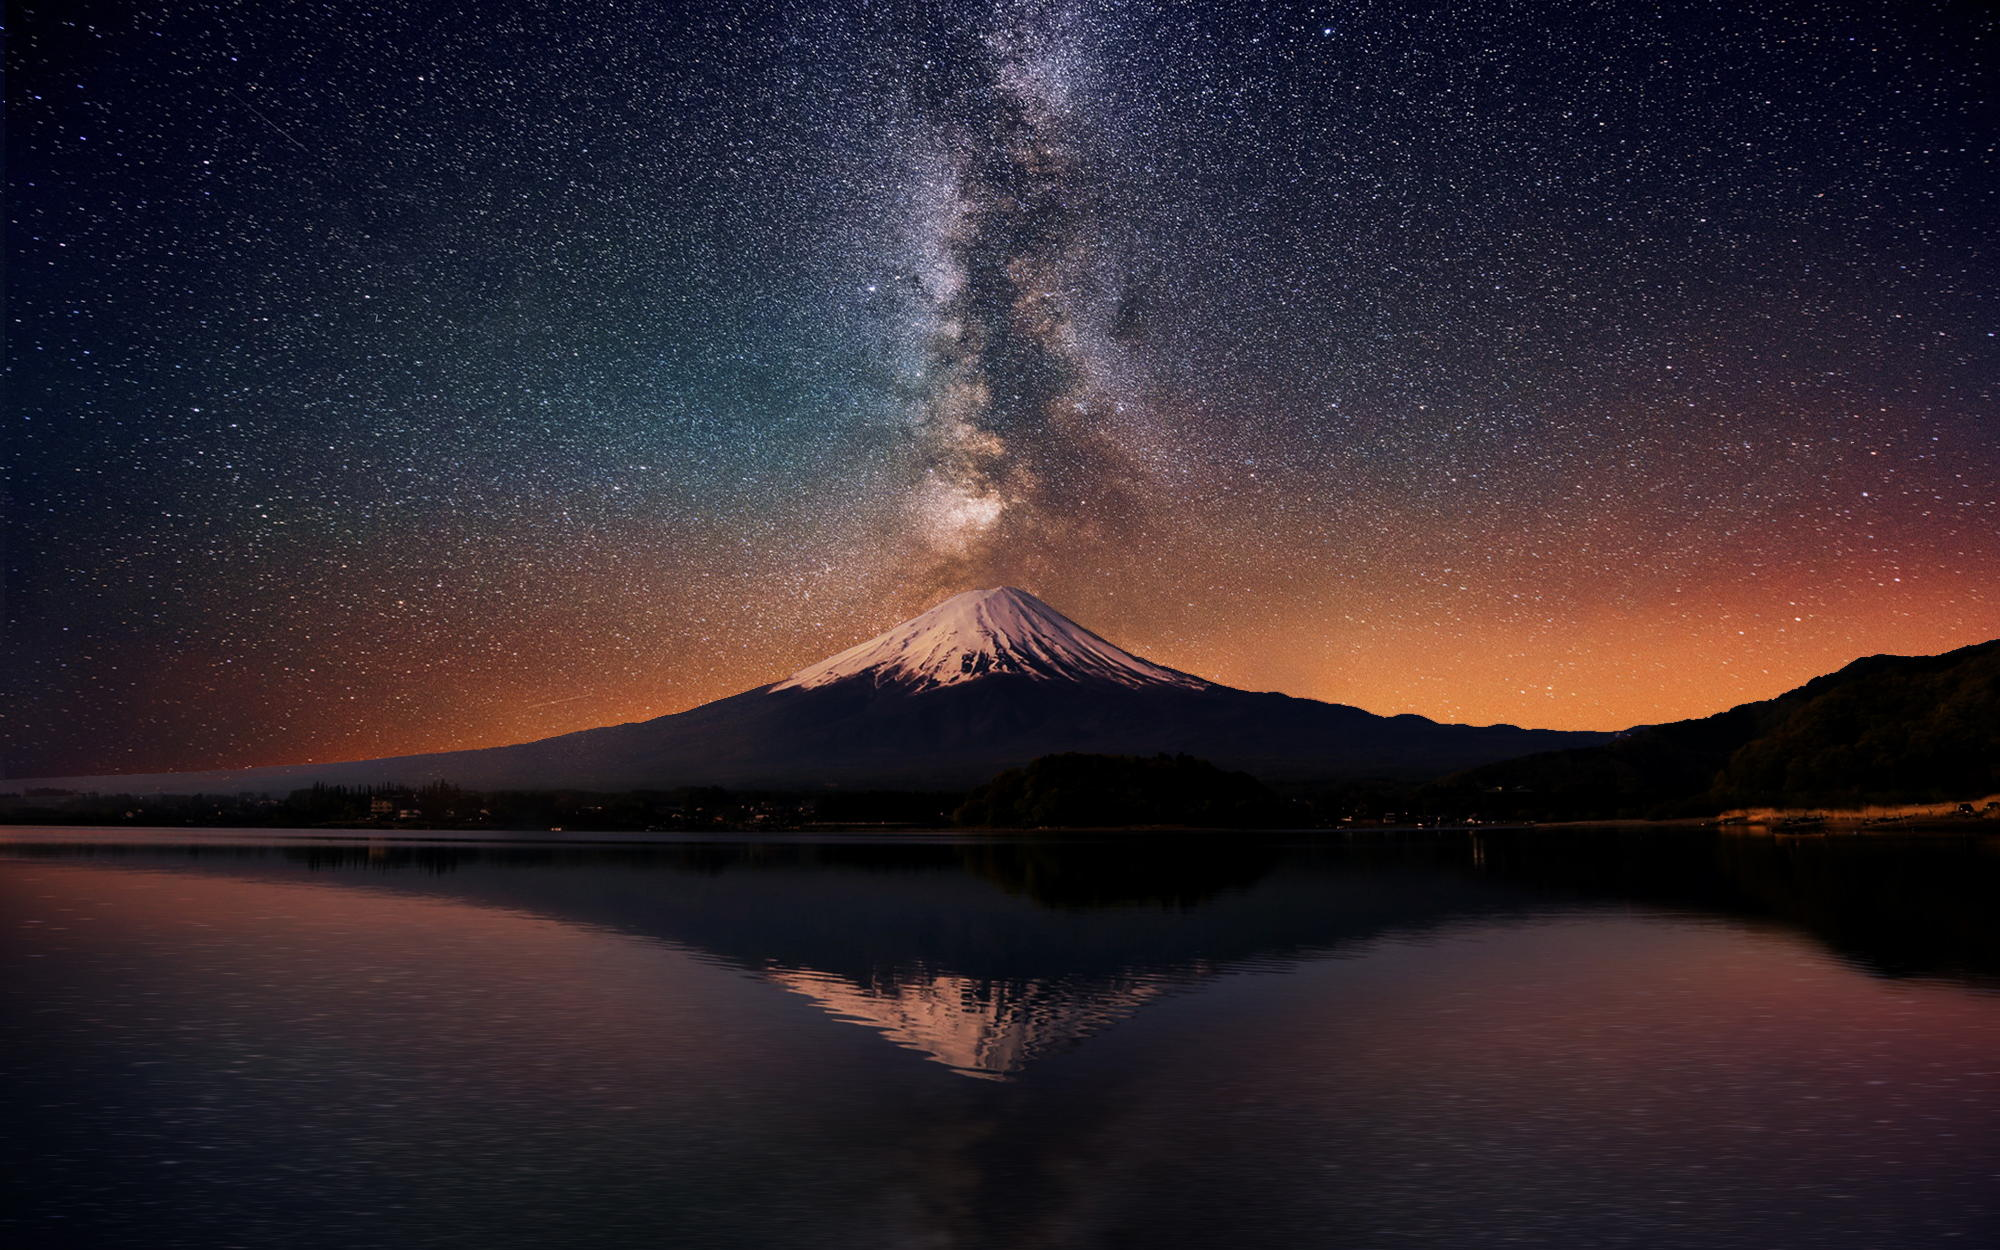
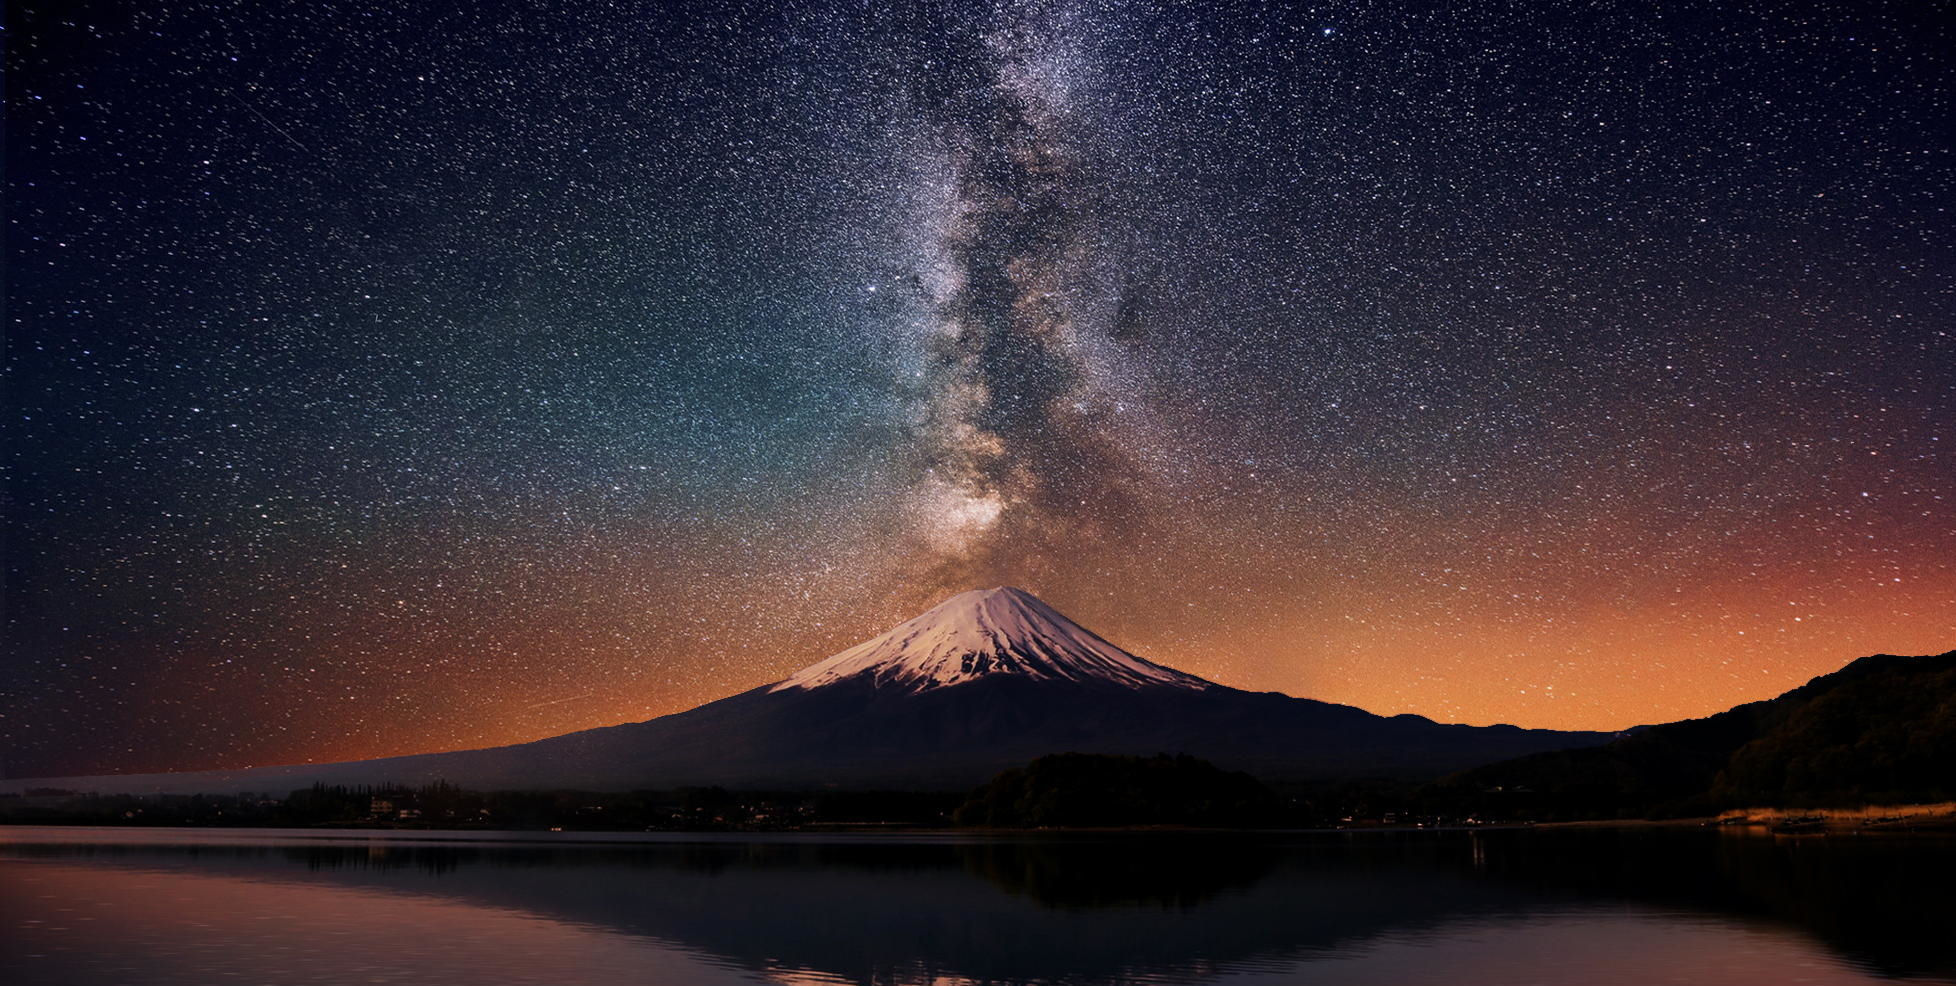
Scale background image

diff --git a/client/components/main.css b/client/components/main.css
@@ -23,7 +23,11 @@
 }
 
 body {
-  background-image: url('../public/background.jpg');
+  background: url('../public/background.jpg') no-repeat center center fixed;
+  -webkit-background-size: cover;
+  -moz-background-size: cover;
+  -o-background-size: cover;
+  background-size: cover;
 }
 
 h1 {
